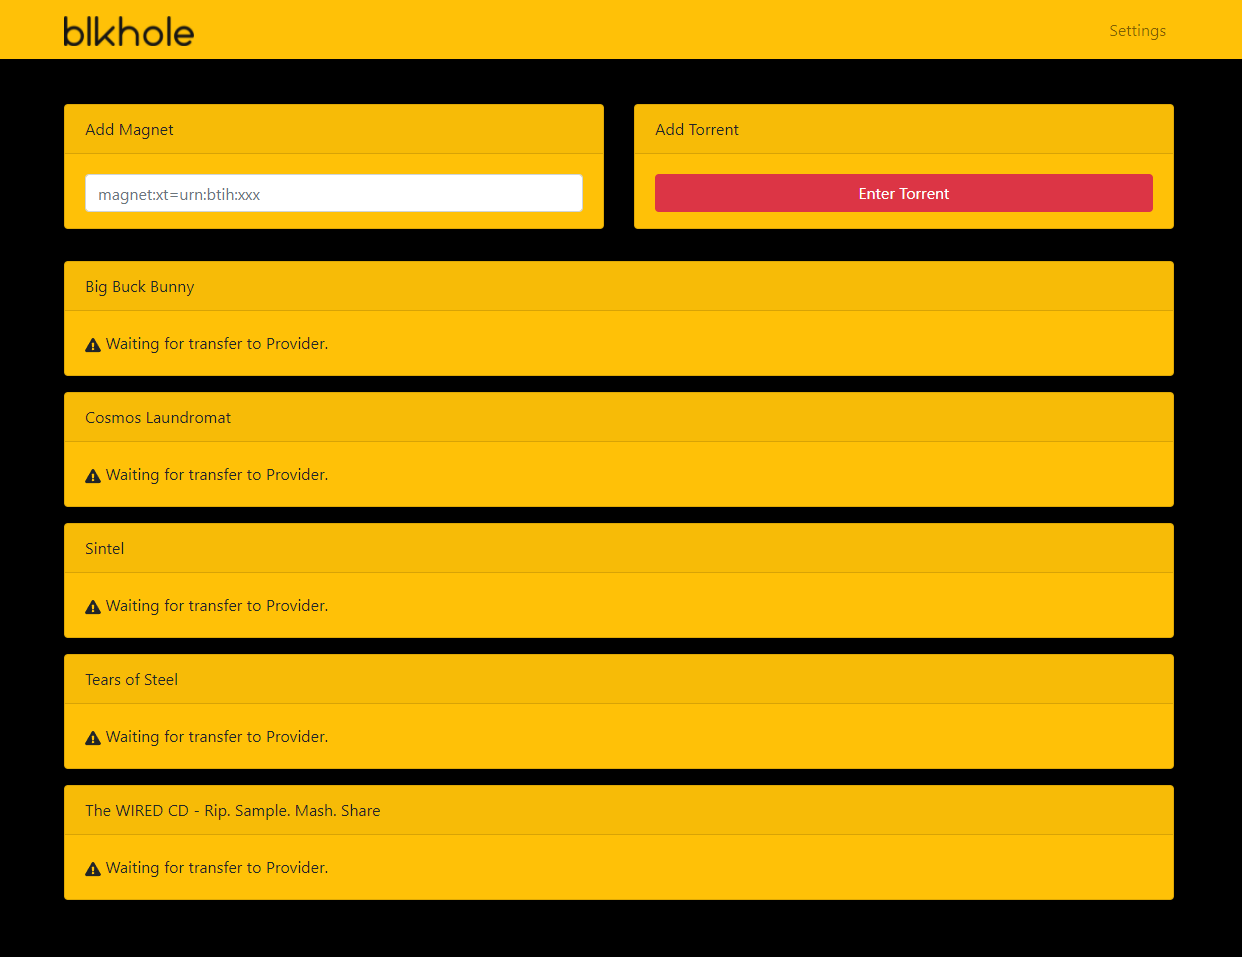
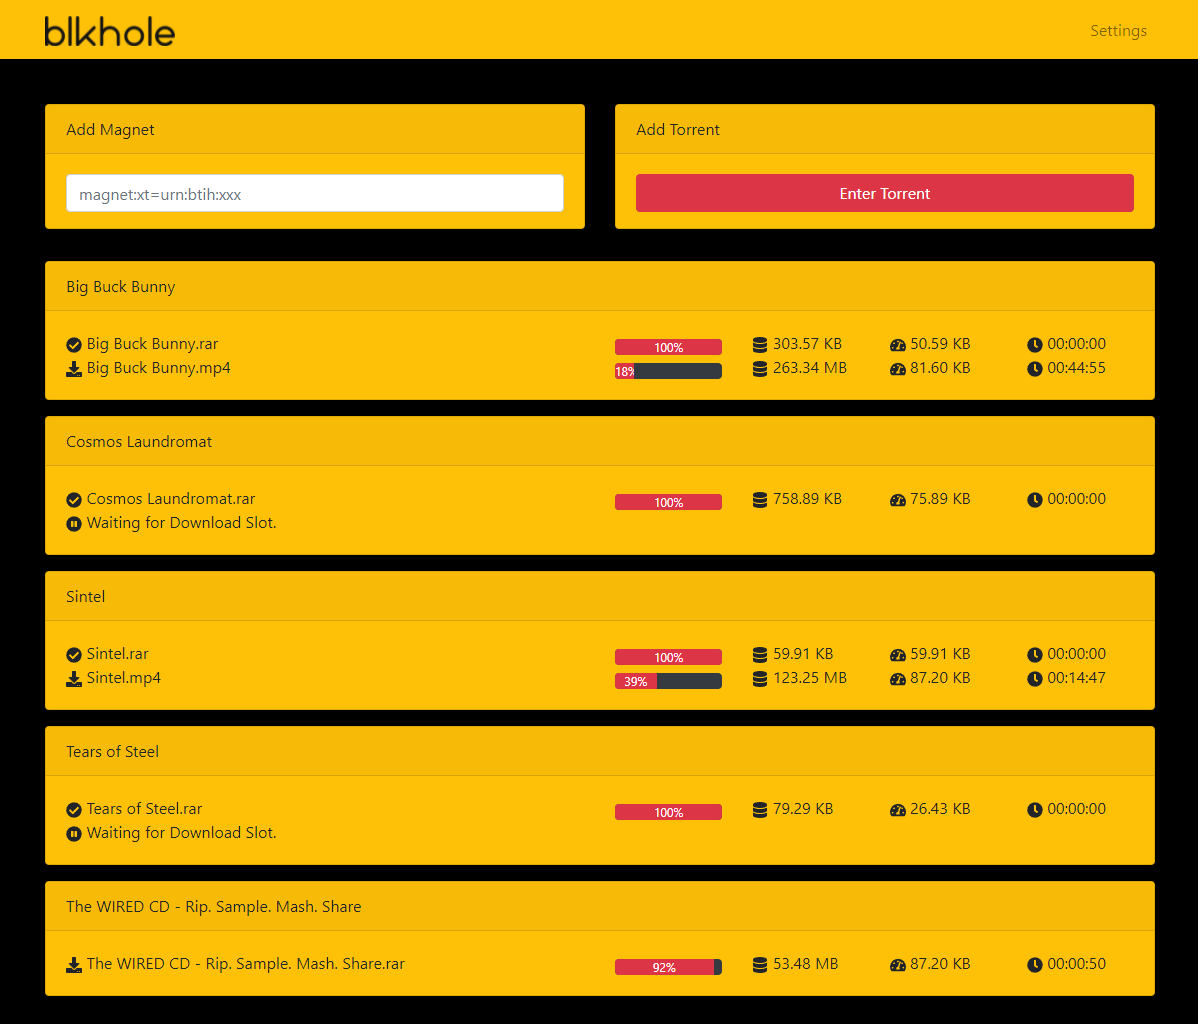
WIP Webinterface

Changed region(s): [[0.0309, 0.0909, 0.9883, 1.0], [0.0, 0.0, 1.0, 0.0606]]

diff --git a/web/src/App.js b/web/src/App.js
@@ -8,11 +8,137 @@ import './App.css';
 
 import * as Helpers from './Helpers';
 
-import { Container, Row, Col, Nav, Navbar, NavDropdown, Card, Button, ProgressBar, Form } from 'react-bootstrap';
+import { Container, Row, Col, Nav, Navbar, NavDropdown, Card, Button, ProgressBar, Form, Alert } from 'react-bootstrap';
 
-import { FaExclamationTriangle, FaCloudDownloadAlt, FaDownload } from 'react-icons/fa';
+import { FaExclamationTriangle, FaCloudDownloadAlt, FaDownload, FaClock, FaPauseCircle, FaTachometerAlt, FaDatabase, FaCheckCircle } from 'react-icons/fa';
 
 const axios = require('axios').default;
+
+
+
+
+
+
+class Item extends React.Component {
+  constructor(props) {
+      super(props);
+  }
+
+  render() {
+
+    let data = this.props.data;
+    return (
+        <Row className="pt-3" key={"item"+data.filename}>
+          <Col>
+            <Card className="text bg-warning">
+              <Card.Header>{data.filename}</Card.Header>
+              <Card.Body>
+
+                {(() => {
+
+                  if(Helpers.empty(data.provider)) {
+
+                    return (
+                      <Card.Text>
+                        <FaExclamationTriangle /> Waiting for transfer to Provider.
+                      </Card.Text>
+                    );
+
+                  } else {
+
+                    if(!Helpers.empty(data.provider) && !data.provider.ready) {
+
+                      return (
+                        <div>
+                          <Card.Text>
+                            <FaCloudDownloadAlt /> Waiting for Provider Download to finish.
+                          </Card.Text>
+                        </div>
+                      );
+
+                    } else if(!Helpers.empty(data.provider) && data.provider.ready) {
+
+                        if(Helpers.empty(data.downloads)) {
+
+                          return (
+                            <div>
+                              <Card.Text>
+                                <FaPauseCircle /> Waiting for Downloader to download.
+                              </Card.Text>
+                            </div>
+                          );
+
+                        } else if(!Helpers.empty(data.downloads)) {
+
+                          let downloads = [];
+   
+                          Object.keys(data.downloads).forEach(function(key2) {
+
+                            let download = data.downloads[key2];
+
+                            let status = <FaDownload />;
+
+                            if(download.done) {
+                              status = <FaCheckCircle />;
+                            }
+
+                            if(download) {
+                              downloads.push(
+                                <Row>
+                                  <Col xs="6">{status} {Helpers.basename(download.path)}</Col>
+                                  <Col xs="6">
+                                    <Row>
+                                      <Col xs="3" className="pt-2"><ProgressBar className="bg-dark" variant="danger" now={download.percent} label={`${download.percent}%`} /></Col>
+                                      <Col xs="3"><FaDatabase /> {download.sizeText}</Col>
+                                      <Col xs="3"><FaTachometerAlt /> {download.speedText}</Col>
+                                      <Col xs="3"><FaClock /> {download.timeText}</Col>
+                                    </Row>
+                                  </Col>
+                                </Row>
+
+                              );
+                            } else {
+                              downloads.push(
+                                <Row>
+                                  <Col><FaPauseCircle /> Waiting for Download Slot.</Col>
+                                </Row>
+                              );
+                            }
+
+                          });
+                    
+                          return downloads;
+
+                        } else {
+                          return null;
+                        }
+
+
+                    }
+
+
+
+                  }
+
+                  return null;
+
+                })(this)}
+
+
+
+
+
+              </Card.Body>
+            </Card>
+          </Col>
+        </Row>
+      );
+
+  }
+}
+
+
+
 
 class List extends React.Component {
   constructor(props) {
@@ -21,11 +147,12 @@ class List extends React.Component {
 
   loadList() {
 
-    var _this = this;
+    let _this = this;
     var stateData = this.state;
 
     axios.get("http://localhost:1337/status").then(function (response) {
-        var data = response.data;
+        let data = response.data;
+        console.log( data );
         _this.setState({data: data});
     })
     .catch(function (error) {
@@ -36,12 +163,12 @@ class List extends React.Component {
 
 
   componentDidMount() {
-    var _this = this;
+    let _this = this;
     this.loadList();
 
     setInterval(function(){ 
       _this.loadList(); 
-    }, 5000);
+    }, 1000);
   }
 
   render() {
@@ -53,106 +180,20 @@ class List extends React.Component {
 
               {(() => {
 
-                var _this = this;
-                var html = [];
+                let _this = this;
+                let html = [];
 
                 if(!Helpers.empty(this.state.data)) {
                     Object.keys(this.state.data).forEach(function(key) {
-
-                        var data = _this.state.data[key];
-                        html.push(
-                            <Row className="pt-3" key={'listItem'+key}>
-                              <Col>
-                                <Card className="text bg-warning">
-                                  <Card.Header>{data.filename}</Card.Header>
-                                  <Card.Body>
-
-                                    {(() => {
-
-                                      if(Helpers.empty(data.provider)) {
-
-                                        return (
-                                          <Card.Text>
-                                            <FaExclamationTriangle /> Waiting for transfer to Provider.
-                                          </Card.Text>
-                                        );
-
-                                      } else {
-
-                                        if(!Helpers.empty(data.provider) && !data.provider.ready) {
-
-                                          return (
-                                            <div>
-                                              <Card.Text>
-                                                <FaCloudDownloadAlt /> Waiting for Provider Download to finish.
-                                              </Card.Text>
-                                            </div>
-                                          );
-
-                                        } else if(!Helpers.empty(data.provider) && data.provider.ready) {
-
-                                            if(Helpers.empty(data.downloads) && data.provider.ready) {
-
-                                              return (
-                                                <div>
-                                                  <Card.Text>
-                                                    <FaDownload /> Waiting for Downloader to download.
-                                                  </Card.Text>
-                                                </div>
-                                              );
-
-                                            } else if(!Helpers.empty(data.downloads) && data.provider.ready) {
-
-                                              var downloads = [];
-                                              Object.keys(data.downloads).forEach(function(key) {
-
-                                                var download = data.downloads[key];
-
-                                                if(download) {
-                                                  downloads.push(
-                                                    <ProgressBar className="bg-dark" variant="danger" now={download.percent} label={`${download.percent}%`} />
-                                                  );
-                                                } else {
-                                                  downloads.push(
-                                                    <Card.Text>
-                                                      <FaDownload /> Waiting for Download Slot.
-                                                    </Card.Text>
-                                                  );
-                                                }
-
-                                              });
-
-                                              return html;
-
-                                            }
-
-
-                                        }
-
-
-
-                                      }
-
-                                      return null;
-
-                                    })(this)}
-
-
-
-
-
-                                  </Card.Body>
-                                </Card>
-                              </Col>
-                            </Row>
-                          );
-
+                      html.push(
+                          <Item key={"data"+key} data={_this.state.data[key]} />
+                      );
                     });
                 } else {
                     html.push(
-                        <div>
-                            <stong>Waiting for Blackhole.</stong>
-                        </div>
+                      <Card className="text bg-warning">
+                        <Card.Header>Waiting for Blackhole....</Card.Header>
+                      </Card>
                     );
                 }
 

diff --git a/web/src/Helpers.js b/web/src/Helpers.js
@@ -20,7 +20,7 @@ export var in_array = require('locutus/php/array/in_array');
 export var array_slice = require('locutus/php/array/array_slice');
 export var array_search = require('locutus/php/array/array_search');
 export var count = require('locutus/php/array/count');
-export var  array_filter = require('locutus/php/array/array_filter');
+export var array_filter = require('locutus/php/array/array_filter');
 
 // strings
 export var explode = require('locutus/php/strings/explode');

diff --git a/app/downloader/download.php b/app/downloader/download.php
@@ -11,6 +11,7 @@ class Download {
     public $dir = false;
     public $url = false;
     public $size = 0;
+    public $sizeText;
     public $currentSize = 0;
     public $percent = 0;
     public $speed = 0;
@@ -84,6 +85,8 @@ class Download {
 
             $this->speed = array_sum($this->secDataHistory)/count($this->secDataHistory);
             $this->speedText = $app->filesize_formatted($this->speed);
+
+            $this->sizeText = $app->filesize_formatted($this->size);
 
             if(!empty($this->size) && !empty($this->currentSize) && !empty($this->speed)) {
                 $this->time = ($this->size-$this->currentSize)/$this->speed;

diff --git a/app/web.php b/app/web.php
@@ -81,9 +81,7 @@ class Web {
                     if(!empty($magnet['downloads'])) {
                         foreach($magnet['downloads'] as $key => $download) {
     
-    
-                            $info = false;
-                            //$info = $this->app->downloader->info($download);
+                            $info = $this->app->downloader->info($download);
                             if($info) {
                                 $data[$path]['downloads'][$key] = $info;
                             } else {

diff --git a/app/downloader/controller.php b/app/downloader/controller.php
@@ -76,6 +76,7 @@ class Controller {
             'dir' => $download->dir,
             'url' => $download->url,
             'size' => $download->size,
+            'sizeText' => $download->sizeText,
             'currentSize' => $download->currentSize,
             'percent' => $download->percent,
             'speed' => $download->speed,
